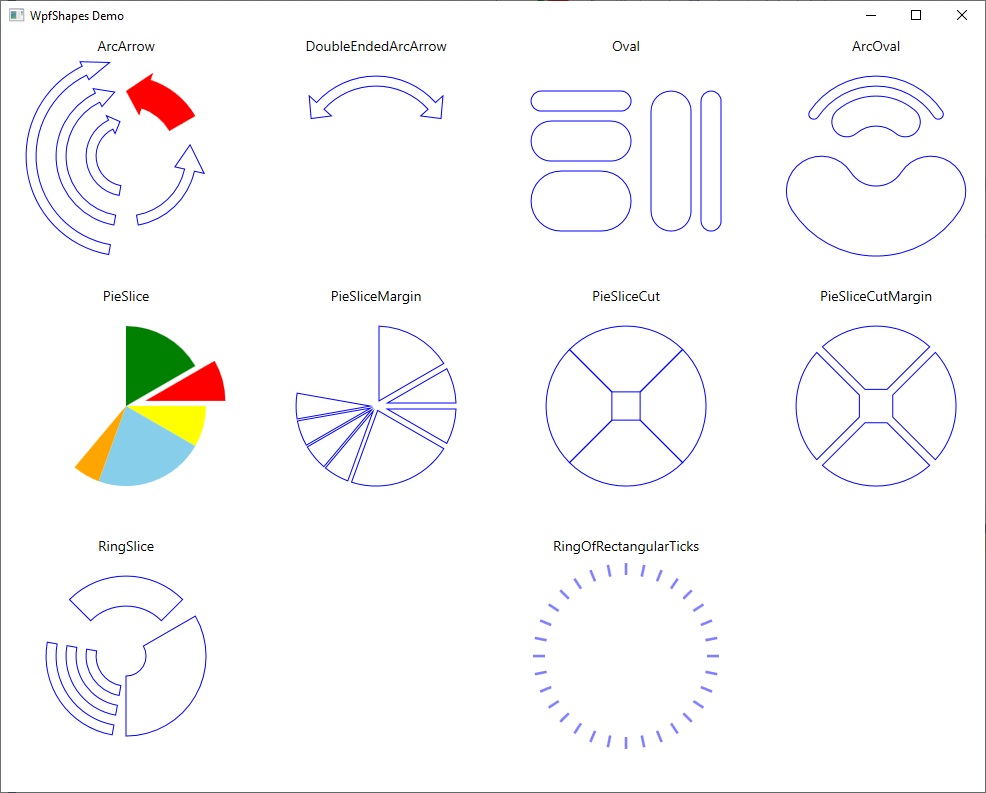
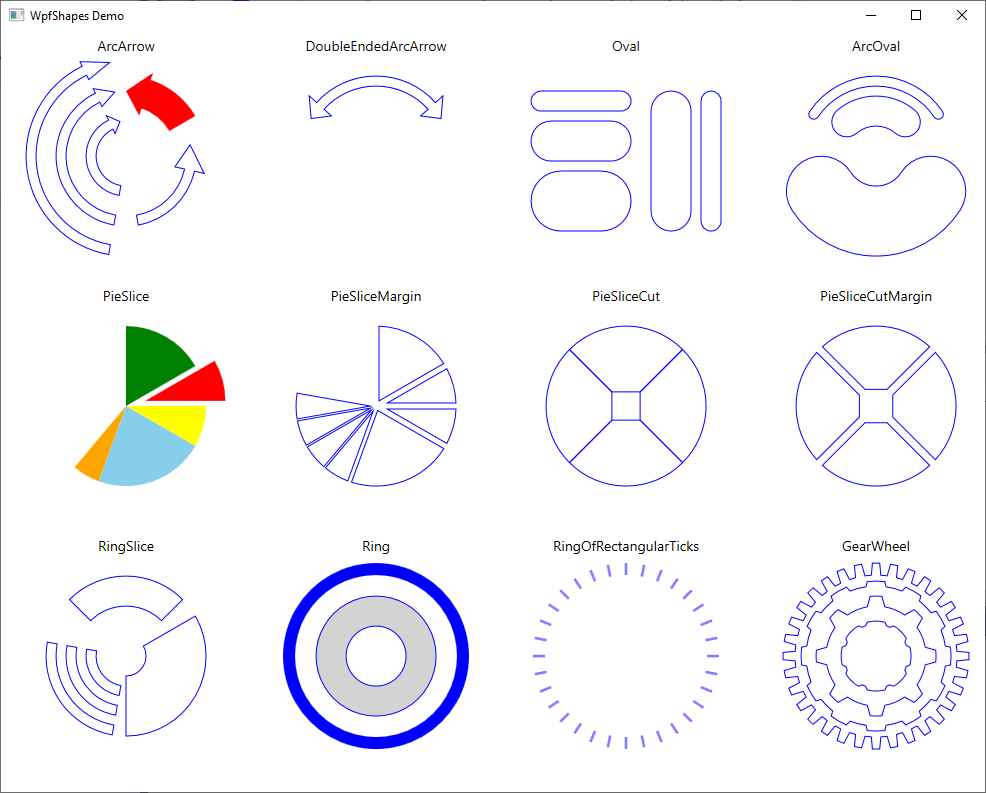
Add GearWheel shape

diff --git a/WpfShapesDemo/MainWindow.xaml b/WpfShapesDemo/MainWindow.xaml
@@ -293,6 +293,46 @@
                                    Opacity="0.50"
                                    Center="125,125"/>
 
+    <!-- ==================== GearWheel ==================== -->
+    <TextBlock Grid.Row="2" Grid.Column="3" Text="GearWheel"/>
+    <shapes:GearWheel Grid.Row="2" Grid.Column="3"
+                      OuterRadius="93"
+                      InnerRadius="81"
+                      NumberOfTeeth="32"
+                      StrokeThickness="1"
+                      Stroke="Blue"
+                      Center="125,125"/>
+
+    <shapes:GearWheel Grid.Row="2" Grid.Column="3"
+                      OuterRadius="75"
+                      InnerRadius="70"
+                      NumberOfTeeth="12"
+                      OuterToothSeparationRatio="0.45"
+                      InnerToothSeparationRatio="0.55"
+                      StrokeThickness="1"
+                      Stroke="Blue"
+                      Center="125,125"/>
+
+    <shapes:GearWheel Grid.Row="2" Grid.Column="3"
+                      OuterRadius="60"
+                      InnerRadius="50"
+                      NumberOfTeeth="8"
+                      OuterToothSeparationRatio="0.25"
+                      InnerToothSeparationRatio="0.45"
+                      StrokeThickness="1"
+                      Stroke="Blue"
+                      Center="125,125"/>
+
+    <shapes:GearWheel Grid.Row="2" Grid.Column="3"
+                      OuterRadius="35"
+                      InnerRadius="32"
+                      NumberOfTeeth="8"
+                      OuterToothSeparationRatio="0.65"
+                      InnerToothSeparationRatio="0.85"
+                      StrokeThickness="1"
+                      Stroke="Blue"
+                      Center="125,125"/>
+
 
   </Grid>
 </Window>

diff --git a/WpfShapes/GearWheel.cs b/WpfShapes/GearWheel.cs
@@ -1,0 +1,194 @@
+using System;
+using System.Diagnostics;
+using System.Text;
+using System.Windows;
+using System.Windows.Media;
+using System.Windows.Shapes;
+
+namespace WpfShapes
+{
+  /// <summary>
+  /// GearWheel is circle with teeth, like a gear wheel.
+  /// This version defines the shape of the teeth with the ratio of tooth size to tooth separation,
+  /// for both the inner and outer circle (i.e. the outer edge of the tooth and the base of the tooth).
+  /// (An alternative would be to define the tooth angle, but I did not implement that.)
+  /// </summary>
+  public class GearWheel : Shape
+  {
+    private string _path = null ;
+
+    public static readonly DependencyProperty InnerRadiusProperty =
+        DependencyProperty.Register ( "InnerRadius",
+                                      typeof(double),
+                                      typeof(GearWheel),
+                                      new FrameworkPropertyMetadata ( 70.0,
+                                                                      FrameworkPropertyMetadataOptions.AffectsRender | FrameworkPropertyMetadataOptions.AffectsMeasure,
+                                                                      OnShapeChanged ) ) ;
+
+    public static readonly DependencyProperty OuterRadiusProperty =
+        DependencyProperty.Register ( "OuterRadius",
+                                      typeof(double),
+                                      typeof(GearWheel),
+                                      new FrameworkPropertyMetadata ( 80.0,
+                                                                      FrameworkPropertyMetadataOptions.AffectsRender | FrameworkPropertyMetadataOptions.AffectsMeasure,
+                                                                      OnShapeChanged ) ) ;
+
+    public static readonly DependencyProperty OuterToothSeparationRatioProperty =
+        DependencyProperty.Register ( "OuterToothSeparationRatio",
+                                      typeof(double),
+                                      typeof(GearWheel),
+                                      new FrameworkPropertyMetadata ( 0.4,
+                                                                      FrameworkPropertyMetadataOptions.AffectsRender | FrameworkPropertyMetadataOptions.AffectsMeasure,
+                                                                      OnShapeChanged ) ) ;
+
+    public static readonly DependencyProperty InnerToothSeparationRatioProperty =
+        DependencyProperty.Register ( "InnerToothSeparationRatio",
+                                      typeof(double),
+                                      typeof(GearWheel),
+                                      new FrameworkPropertyMetadata ( 0.6,
+                                                                      FrameworkPropertyMetadataOptions.AffectsRender | FrameworkPropertyMetadataOptions.AffectsMeasure,
+                                                                      OnShapeChanged ) ) ;
+
+    public static readonly DependencyProperty NumberOfTeethProperty =
+        DependencyProperty.Register ( "NumberOfTeeth",
+                                      typeof(int),
+                                      typeof(GearWheel),
+                                      new FrameworkPropertyMetadata ( 32,
+                                                                      FrameworkPropertyMetadataOptions.AffectsRender | FrameworkPropertyMetadataOptions.AffectsMeasure,
+                                                                      OnShapeChanged ) ) ;
+
+    public static readonly DependencyProperty CenterProperty =
+        DependencyProperty.Register ( "Center",
+                                      typeof(Point),
+                                      typeof(GearWheel),
+                                      new FrameworkPropertyMetadata ( new Point(0,0),
+                                                                      FrameworkPropertyMetadataOptions.AffectsRender | FrameworkPropertyMetadataOptions.AffectsMeasure,
+                                                                      OnShapeChanged ) ) ;
+
+    public GearWheel ()
+    {
+      // Initialise the geometry with the default parameters.
+      InitializeGeometry() ;
+    }
+
+    protected override Geometry DefiningGeometry
+    {
+      get
+      {
+        return Geometry.Parse ( _path ) ;
+      }
+    }
+
+    //-------------------------------------------------------------------------
+    // Getters and setters for the dependency properties
+    //-------------------------------------------------------------------------
+    public double InnerRadius
+    {
+      get { return Convert.ToDouble(GetValue(InnerRadiusProperty)); }
+      set { SetValue(InnerRadiusProperty, value); }
+    }
+
+    public double OuterRadius
+    {
+      get { return Convert.ToDouble(GetValue(OuterRadiusProperty)); }
+      set { SetValue(OuterRadiusProperty, value); }
+    }
+
+    public double OuterToothSeparationRatio
+    {
+      get { return Convert.ToDouble(GetValue(OuterToothSeparationRatioProperty)); }
+      set { SetValue(OuterToothSeparationRatioProperty, value); }
+    }
+
+    public double InnerToothSeparationRatio
+    {
+      get { return Convert.ToDouble(GetValue(InnerToothSeparationRatioProperty)); }
+      set { SetValue(InnerToothSeparationRatioProperty, value); }
+    }
+
+    public int NumberOfTeeth
+    {
+      get { return Convert.ToInt32(GetValue(NumberOfTeethProperty)); }
+      set { SetValue(NumberOfTeethProperty, value); }
+    }
+
+    public Point Center
+    {
+      get { return (Point)GetValue(CenterProperty); }
+      set { SetValue(CenterProperty, value); }
+    }
+
+    //-------------------------------------------------------------------------
+    // Property changed callbacks
+    //-------------------------------------------------------------------------
+    public static void OnShapeChanged ( DependencyObject d, DependencyPropertyChangedEventArgs e )
+    {
+      var ao = d as GearWheel ;
+      ao.InitializeGeometry() ;
+    }
+
+    //-------------------------------------------------------------------------
+    // Member functions
+    //-------------------------------------------------------------------------
+    private void InitializeGeometry()
+    {
+      var offset = (Vector)Center ;
+
+      // All angle in radians
+      var tooth_separation = 2 * Math.PI / NumberOfTeeth ;
+      var tooth_outer      = tooth_separation * OuterToothSeparationRatio ;
+      var tooth_inner      = tooth_separation * InnerToothSeparationRatio ;
+      var half_tooth_outer = tooth_outer / 2 ;
+      var half_tooth_inner = tooth_inner / 2 ;
+
+      // and in degrees for the Arc in the path
+      var tooth_outer_deg  = tooth_outer * 180 / Math.PI ;
+      var tooth_inner_deg  = tooth_inner * 180 / Math.PI ;
+
+      // Start at the bottom of the first tooth.
+      double istart  = -half_tooth_inner ;
+      double cistart = Math.Cos ( istart ) ;
+      double sistart = Math.Sin ( istart ) ;
+      var    pstart  = new Point ( InnerRadius * sistart, -InnerRadius * cistart ) + offset ;
+
+      var sb = new StringBuilder() ;
+      sb.AppendFormat ( "M {0:F3},{1:F3} ", pstart.X, pstart.Y ) ;
+
+      // In each loop go up the side of the tooth, along the outer arc, down the other side and along the inner arc to the next tooth.
+      for ( int i = 0 ; i < NumberOfTeeth ; i++ )
+      {
+        double a  = i * tooth_separation ;
+        double o1 = a - half_tooth_outer ;
+        double o2 = a + half_tooth_outer ;
+        double i1 = a + half_tooth_inner ;
+        double i2 = a + tooth_separation - half_tooth_inner ;
+
+        double co1 = Math.Cos ( o1 ) ;
+        double so1 = Math.Sin ( o1 ) ;
+        double co2 = Math.Cos ( o2 ) ;
+        double so2 = Math.Sin ( o2 ) ;
+        double ci1 = Math.Cos ( i1 ) ;
+        double si1 = Math.Sin ( i1 ) ;
+        double ci2 = Math.Cos ( i2 ) ;
+        double si2 = Math.Sin ( i2 ) ;
+
+        var p1 = new Point ( OuterRadius * so1, -OuterRadius * co1 ) + offset ;
+        var p2 = new Point ( OuterRadius * so2, -OuterRadius * co2 ) + offset ;
+        var p3 = new Point ( InnerRadius * si1, -InnerRadius * ci1 ) + offset ;
+        var p4 = new Point ( InnerRadius * si2, -InnerRadius * ci2 ) + offset ;
+
+        sb.AppendFormat ( "L {0:F3},{1:F3} ", p1.X, p1.Y );
+        sb.AppendFormat ( "A {0:F3},{0:F3} {1:F3} 0 1 {2:F3},{3:F3} ", OuterRadius, tooth_outer_deg, p2.X, p2.Y );
+        sb.AppendFormat ( "L {0:F3},{1:F3} ", p3.X, p3.Y );
+        sb.AppendFormat ( "A {0:F3},{0:F3} {1:F3} 0 1 {2:F3},{3:F3} ", InnerRadius, tooth_inner_deg, p4.X, p4.Y );
+      }
+
+      sb.Append ( "Z " ) ;
+
+      _path = sb.ToString() ;
+
+      Debug.WriteLine ( _path ) ;
+    }
+
+  }
+}
